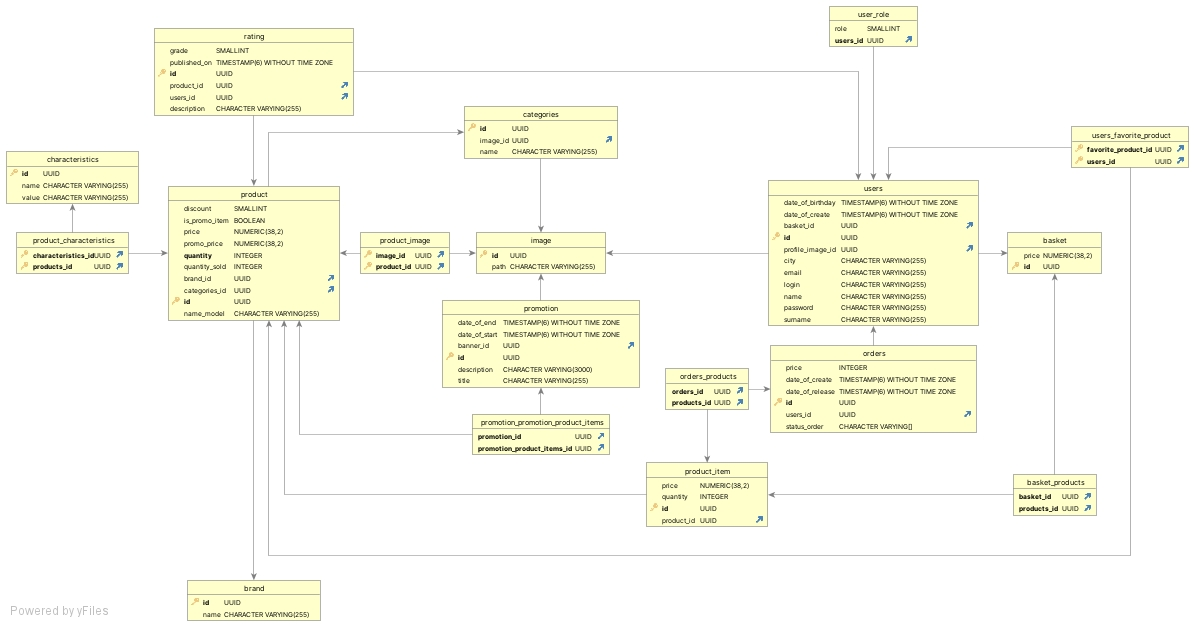
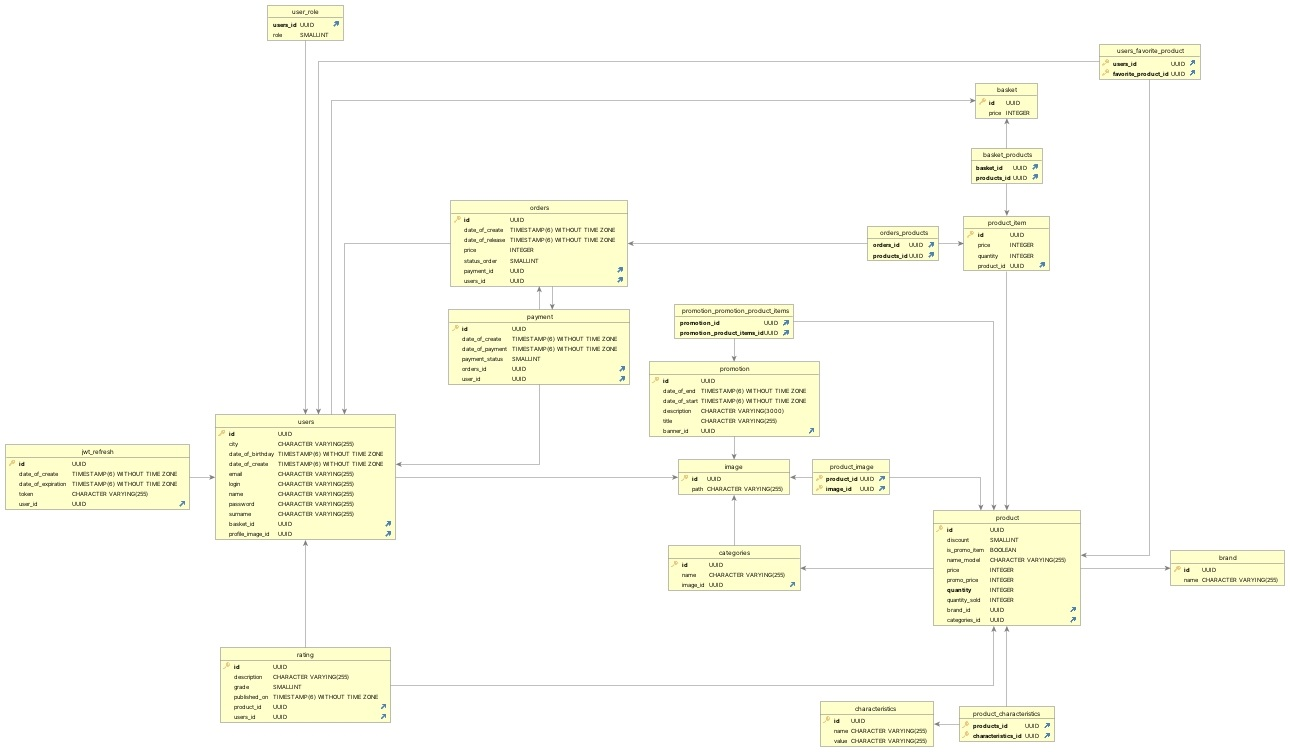
.

diff --git a/src/main/resources/front_ts_vue/src/shared/client/AxiosClient.ts b/src/main/resources/front_ts_vue/src/shared/client/AxiosClient.ts
@@ -11,12 +11,6 @@ const BASE_URL = "http://127.0.0.1:9000/api";
 const config = {
   baseURL: BASE_URL,
   timeout: 30000,
-  headers: {
-    Authorization: localStorage.getItem("type") || "" + localStorage.getItem("token") || ""
-  },
-  validateStatus (status: number) {
-    return status < 500 // Resolve only if the status code is less than 500
-  }
 }
 /* eslint-enable */
 
@@ -25,7 +19,8 @@ const _axios: AxiosInstance = axios.create(config);
 /* eslint-disable */
 // @ts-ignore
 _axios.interceptors.request.use(async (config: AxiosRequestConfig): AxiosRequestConfig | Promise<AxiosRequestConfig> => {
-    config.headers.Authorization = localStorage.getItem("token");
+    if(localStorage.getItem("access") != null)
+      config.headers.Authorization = "Bearer " + localStorage.getItem("access");
     return Promise.resolve(config)
   },  (error) => {
     // Do something with request error
@@ -43,24 +38,22 @@ _axios.interceptors.response.use(
   },
   // в случае просроченного accessToken пытаемся его обновить:
   async (error) => {
-    // предотвращаем зацикленный запрос, добавляя свойство _isRetry
-    const originalRequest = {...error.config};
-    originalRequest._isRetry = true;
+    const config = error?.config;
+    console.log("I'A HERE");
     if (
-      // проверим, что ошибка именно из-за невалидного accessToken
-      error.response.status === 401 &&
-      // проверим, что запрос не повторный
-      error.config &&
-      !error.config._isRetry
+      error?.response?.status === 403 && !config?.sent
     ) {
       try {
+        config.sent = true;
         // запрос на обновление токенов
-        const resp = await _axios.post("/api/auth/access");
+        const resp = await _axios.post("/auth/access", {
+          refreshToken: localStorage.getItem("refresh")
+        });
         // сохраняем новый accessToken в localStorage
-        localStorage.setItem("type", resp.data.type);
-        localStorage.setItem("token", resp.data.accessToken);
+        localStorage.setItem("access", resp.data.accessToken);
         // переотправляем запрос с обновленным accessToken
-        return _axios.request(originalRequest);
+        return _axios.request(config);
+
       } catch (error) {
         console.log("AUTH ERROR");
       }

diff --git a/src/main/resources/front_ts_vue/src/pages/CatalogView.vue b/src/main/resources/front_ts_vue/src/pages/CatalogView.vue
@@ -25,9 +25,19 @@
           <div class="col-12">
             <nav aria-label="Page navigation">
               <ul class="pagination">
-                <li class="page-item"><a class="page-link" href="#">1</a></li>
-                <li class="page-item"><a class="page-link" href="#">2</a></li>
-                <!-- Add more page numbers here -->
+                <li
+                  v-for="number in pages[0].totalPages"
+                  :key="number"
+                  class="page-item"
+                >
+                  <a
+                    class="page-link"
+                    v-on:click="changePages(number - 1)"
+                    href="#"
+                  >
+                    {{ number }}
+                  </a>
+                </li>
               </ul>
             </nav>
           </div>
@@ -60,6 +70,15 @@ const pages = ref<PageableType<Product>[]>([]);
 const characteristics = ref<Characteristics[]>();
 
 const filter = ref<Characteristics[]>([]);
+
+const changePages = async (pageIndex: number) => {
+  currentPages.value = pageIndex;
+  if (!pages.value[pageIndex]) {
+    console.log("ГРУЗИМ");
+    const resp = await loadPages();
+    pages.value[pageIndex] = resp;
+  }
+};
 
 const useFiltered = async (selectedValues: Characteristics[]) => {
   filter.value = selectedValues;

diff --git a/src/main/resources/front_ts_vue/src/pages/UserPages.vue b/src/main/resources/front_ts_vue/src/pages/UserPages.vue
@@ -1,12 +1,12 @@
 <template>
   <div class="root container mt-5">
-    <div v-if="!userStore.isLoading" class="user-profile border p-4 rounded-2">
+    <div v-if="userStore.user" class="user-profile border p-4 rounded-2">
       <div class="wrapper row">
         <div class="col-12 col-md-4 col-lg-3 img text-center">
           <img
             class="border rounded-5"
             :src="
-              'http://localhost:8080/api/image/' +
+              'http://localhost:9000/api/image/' +
               userStore.getUser?.profileImage?.id
             "
             alt="Изображения профиля"
@@ -35,7 +35,7 @@
         />
         <input
           class="input-group-text"
-          :placeholder="userStore.getUser._dateOfBirthday || 'День рождения'"
+          :placeholder="userStore.getUser.dateOfBirthday || 'День рождения'"
         />
         <input
           class="input-group-text"
@@ -64,8 +64,8 @@ const router = useRouter();
 const userStore = userStoreModule();
 
 const userLogout = () => {
-  router.push("/");
   userStore.logout();
+  router.push("/");
 };
 
 onMounted(() => {

diff --git a/src/main/resources/front_ts_vue/src/entities/user/api/index.js.ts b/src/main/resources/front_ts_vue/src/entities/user/api/index.js.ts
@@ -9,7 +9,7 @@ import { ProductItem } from "@/entities/product/model/ProductItem";
 export const userStoreModule = defineStore("user", {
   state: () => ({
     user: {} as User,
-    isLogin: !!localStorage.getItem("token"),
+    isLogin: !!localStorage.getItem("access"),
     isLoading: true,
     errorMessage: {} as LoginException,
   }),
@@ -32,7 +32,7 @@ export const userStoreModule = defineStore("user", {
     signIn(params: User) {
       this.isLoading = true;
       UserActions.signIn(params)
-        .then((r) => this.updateUser(r))
+        .then((user) => this.updateUser(user))
         .catch((err) => this.updateErrorMessage(err));
       this.isLoading = false;
     },
@@ -40,8 +40,12 @@ export const userStoreModule = defineStore("user", {
     signUp(params: User) {
       this.isLoading = true;
       UserActions.signUp(params)
-        .then((r) => this.updateUser(r))
-        .catch((err) => this.updateErrorMessage(err));
+        .then((r) => {
+          this.updateUser(r);
+        })
+        .catch((err) => {
+          this.updateErrorMessage(err);
+        });
       this.isLoading = false;
     },
 

diff --git a/src/main/resources/front_ts_vue/src/entities/user/api/model/actions.ts b/src/main/resources/front_ts_vue/src/entities/user/api/model/actions.ts
@@ -47,11 +47,11 @@ export const UserActions = {
     return await $axios.post("/user/basket/remove", product);
   },
 
-  additionDataToStore(response: AxiosResponse): User {
-    console.log(response);
-    localStorage.setItem("login", response.data.user.login);
-    localStorage.setItem("token", "Bearer " + response.data.token);
-    $axios.defaults.headers.common.Authorization = response.data.token;
-    return response.data.user;
+  additionDataToStore(response: any): User {
+    console.log(response.user);
+    localStorage.setItem("login", response.user.login);
+    localStorage.setItem("access", response.accessToken);
+    localStorage.setItem("refresh", response.refreshToken);
+    return response.user;
   },
 };

diff --git a/src/main/resources/front_ts_vue/src/app/router/index.ts b/src/main/resources/front_ts_vue/src/app/router/index.ts
@@ -6,7 +6,6 @@ import CategoriesSelected from "@/pages/CategoriesSelected.vue";
 import AuthenticationPages from "@/pages/AuthenticationPages.vue";
 import UserPage from "@/pages/UserPages.vue";
 import BasketPage from "@/pages/BasketPage.vue";
-import CharacteristicsToProductPage from "@/entities/characteristics/ui/CharacteristicsToProductPage.vue";
 
 const routes: Array<RouteRecordRaw> = [
   {

diff --git a/src/main/resources/front_ts_vue/src/pages/HomeView.vue b/src/main/resources/front_ts_vue/src/pages/HomeView.vue
@@ -5,7 +5,7 @@
         <swiper-slide v-for="promo in promotionData" :key="promo.id">
           <router-link :to="'/promotion/' + promo.id">
             <img
-              src="../../../images/promo-cover_L.png"
+              src="@/app/assets/img/promo-cover_L.png"
               alt=""
               style="width: 100%"
             />

diff --git a/src/main/resources/front_ts_vue/src/App.vue b/src/main/resources/front_ts_vue/src/App.vue
@@ -20,6 +20,6 @@ const userStore = userStoreModule();
 onMounted(async () => {
   const login = localStorage.getItem("login");
   console.log(login);
-  return login != null ? await userStore.loadUserByLogin(login) : null;
+  return login ? await userStore.loadUser() : null;
 });
 </script>

diff --git a/src/main/java/com/faketri/market/infastructure/user/payload/auth/gateway/JwtAuthenticationFilter.java b/src/main/java/com/faketri/market/infastructure/user/payload/auth/gateway/JwtAuthenticationFilter.java
@@ -2,6 +2,7 @@ package com.faketri.market.infastructure.user.payload.auth.gateway;
 
 import com.faketri.market.infastructure.config.exception.JwtValidException;
 import com.faketri.market.usecase.user.payload.user.UserDetailsServerImpl;
+import io.jsonwebtoken.ExpiredJwtException;
 import jakarta.servlet.FilterChain;
 import jakarta.servlet.ServletException;
 import jakarta.servlet.http.HttpServletRequest;
@@ -56,29 +57,36 @@ public class JwtAuthenticationFilter extends OncePerRequestFilter {
             return;
         }
 
-        String username = jwtService.extractUserName(token);
+        try {
+            if (!jwtService.validateAccessToken(token))
+                throw new JwtValidException("Not valid token");
 
-        if (jwtService.validateAccessToken(token))
-            throw new JwtValidException("Not valid token");
+            String username = jwtService.extractUserName(token);
 
-        if (StringUtils.isNotEmpty(username)
-                && SecurityContextHolder.getContext().getAuthentication() == null) {
-            UserDetails userDetails = userDetailsServer.loadUserByUsername(username);
+            if (StringUtils.isNotEmpty(username)
+                    && SecurityContextHolder.getContext().getAuthentication() == null) {
+                UserDetails userDetails = userDetailsServer.loadUserByUsername(username);
 
-            SecurityContext context =
-                    SecurityContextHolder.createEmptyContext();
-            var authToken = new UsernamePasswordAuthenticationToken(
-                    userDetails,
-                    null,
-                    userDetails.getAuthorities()
-            );
+                SecurityContext context =
+                        SecurityContextHolder.createEmptyContext();
+                var authToken = new UsernamePasswordAuthenticationToken(
+                        userDetails,
+                        null,
+                        userDetails.getAuthorities()
+                );
 
-            authToken.setDetails(new WebAuthenticationDetailsSource().buildDetails(request));
-            context.setAuthentication(authToken);
-            SecurityContextHolder.setContext(context);
-            log.info("User with login - " + username + " authorization");
+                authToken.setDetails(new WebAuthenticationDetailsSource().buildDetails(request));
+                context.setAuthentication(authToken);
+                SecurityContextHolder.setContext(context);
+                log.info("User with login - " + username + " authorization");
+
+            }
+        }catch (RuntimeException ex){
+            log.error(ex.getMessage());
         }
-        filterChain.doFilter(request, response);
+        finally {
+            filterChain.doFilter(request, response);
+        }
     }
 
     private String getTokenFromRequest(HttpServletRequest request) {

diff --git a/src/main/java/com/faketri/market/infastructure/config/web/SecurityConfiguration.java b/src/main/java/com/faketri/market/infastructure/config/web/SecurityConfiguration.java
@@ -53,9 +53,14 @@ public class SecurityConfiguration {
                 .authorizeHttpRequests((requests) ->
                         requests
                                 .requestMatchers(HttpMethod.POST, "/api/product/categories/*").permitAll()
-                                .requestMatchers(HttpMethod.GET, "/api/**").permitAll()
+                                .requestMatchers(HttpMethod.GET, "/api/product/**").permitAll()
+                                .requestMatchers(HttpMethod.GET, "/api/categories/**").permitAll()
+                                .requestMatchers(HttpMethod.GET, "/api/characteristics/**").permitAll()
+                                .requestMatchers(HttpMethod.GET, "/api/promotion/**").permitAll()
+                                .requestMatchers(HttpMethod.GET, "/api/brand/**").permitAll()
+                                .requestMatchers(HttpMethod.GET, "/api/image/**").permitAll()
+                                .requestMatchers(HttpMethod.GET, "/api/rating/**").permitAll()
                                 .requestMatchers(HttpMethod.POST, "/api/auth/**").permitAll()
-                                .requestMatchers("/api/user/**").authenticated()
                                 .requestMatchers("/api/orders/**").authenticated()
                                 .anyRequest().authenticated())
                 .sessionManagement(manager -> manager.sessionCreationPolicy(STATELESS))

diff --git a/src/main/java/com/faketri/market/infastructure/config/exception/GlobalExceptionHandler.java b/src/main/java/com/faketri/market/infastructure/config/exception/GlobalExceptionHandler.java
@@ -3,6 +3,7 @@ package com.faketri.market.infastructure.config.exception;
 import com.faketri.market.entity.exception.ResourceNotFoundException;
 import com.faketri.market.entity.user.payload.user.exception.PasswordNotValidException;
 import com.faketri.market.entity.user.payload.user.exception.UserAlreadyExistsException;
+import io.jsonwebtoken.ExpiredJwtException;
 import org.springframework.dao.EmptyResultDataAccessException;
 import org.springframework.data.crossstore.ChangeSetPersister;
 import org.springframework.http.HttpStatus;
@@ -97,6 +98,16 @@ public class GlobalExceptionHandler {
      */
     @ExceptionHandler(JwtValidException.class)
     public ResponseEntity<AppError> handleException(JwtValidException e) {
+        System.out.println("OBRABOTAL");
+        return new ResponseEntity<>(
+                new AppError(HttpStatus.UNAUTHORIZED.value(), e.getMessage()),
+                HttpStatus.UNAUTHORIZED
+        );
+    }
+
+    @ExceptionHandler(ExpiredJwtException.class)
+    public ResponseEntity<AppError> handleException(ExpiredJwtException e) {
+        System.out.println("OBRABOTAL EXPIRED");
         return new ResponseEntity<>(
                 new AppError(HttpStatus.UNAUTHORIZED.value(), e.getMessage()),
                 HttpStatus.UNAUTHORIZED

diff --git a/src/main/java/com/faketri/market/usecase/user/payload/auth/JwtServiceImpl.java b/src/main/java/com/faketri/market/usecase/user/payload/auth/JwtServiceImpl.java
@@ -93,7 +93,7 @@ public class JwtServiceImpl implements JwtService {
                     .parseClaimsJws(token);
             return true;
         } catch (ExpiredJwtException expEx) {
-            log.error("Token expired", expEx);
+            log.error("Token expired");
         } catch (UnsupportedJwtException unsEx) {
             log.error("Unsupported jwt", unsEx);
         } catch (MalformedJwtException mjEx) {
